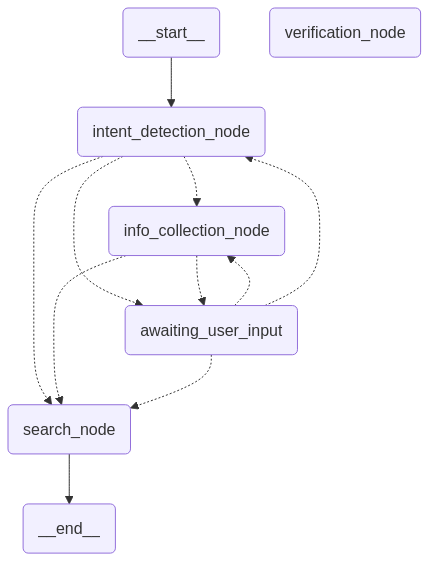
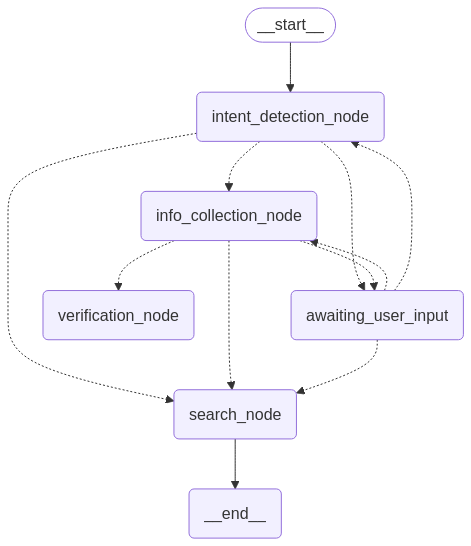
add openai to conclude verification node

diff --git a/frontend/src/components/Message.tsx b/frontend/src/components/Message.tsx
@@ -12,7 +12,7 @@ const Message: React.FC<MessageProps> = ({ sender, text, flightUrl }) => {
   return (
     <div className={`message ${sender}`}>
       <div className="message-content">
-        {text}
+        <div dangerouslySetInnerHTML={{ __html: text }} />
         {flightUrl && (
           <a href={flightUrl} target="_blank" rel="noopener noreferrer">
             See flight details

diff --git a/backend/langgraph_nodes/verification_node.py b/backend/langgraph_nodes/verification_node.py
@@ -1,10 +1,12 @@
+import json
 import os
-import psycopg2
+from typing import Dict, List
 from dotenv import load_dotenv
+import openai
+import psycopg2
 from schemas import Flight_Change, MessageState
 
-# 加载环境变量
-load_dotenv()
+load_dotenv(os.path.join(os.path.dirname(__file__), '../.env'))
 
 class VerificationNode:
     def __init__(self, db_host, db_name, db_user, db_password, db_port=5432):
@@ -13,6 +15,66 @@ class VerificationNode:
         self.db_user = db_user
         self.db_password = db_password
         self.db_port = db_port
+        self.client = openai.OpenAI(api_key=os.getenv("CHAT_GPT_KEY"))
+        self.model_id = os.getenv("CHAT_GPT_MODEL")
+
+    def _call_gpt(self, columns: List[str], result: tuple, user_message: str) -> Dict:
+        """Call OpenAI API to generate single formatted message"""
+        # Build field descriptions
+        field_str = "\n".join([f"{col}: {val}" for col, val in zip(columns, result)])
+        
+        prompt = f"""Generate a SINGLE verification message containing:
+1. Natural language confirmation or rejection in user's language
+2. Structured details section after two newlines
+
+The input data is as follows:
+-Database results:{field_str}
+-User's last message: "{user_message}"
+
+Requirements:
+- If Database results is empty, means Verification failed and No matching ticket found. Generate a message accordingly.
+- If Database results is not empty, means Verification successful and matching ticket found. Generate a message by following the below requirements.
+- Use user's last message to determine the language of the confirmation message
+- Use airport full names (e.g. PVG → Shanghai Pudong International Airport)
+- Localize dates/times based on user's message language
+- Format currency as USD with proper symbols
+- Use Markdown formatting for details section
+- Maintain original field names in details
+- For React JSX compatibility, use <br/><br/> between confirmation and details
+- Use <br/> before each detail item instead of newlines
+
+Output JSON format:
+{{
+    "content": "Natural language confirmation message...<br/><br/>**Ticket Details**<br/>- Field1: Value1<br/>- Field2: Value2...",
+    "sender": "system",
+    "intent_info": "Flight_Change"
+}}"""
+
+        try:
+            response = self.client.chat.completions.create(
+                model=self.model_id,
+                messages=[
+                    {"role": "system", "content": "You are a flight ticketing assistant."},
+                    {"role": "user", "content": prompt}
+                ],
+                temperature=0.2,
+                response_format={"type": "json_object"}
+            )
+            
+            message = json.loads(response.choices[0].message.content)
+            
+            # 验证必要字段
+            required_keys = ["content", "sender", "intent_info"]
+            if not all(k in message for k in required_keys):
+                raise ValueError(f"Missing required keys: {required_keys}")
+                
+            return message
+        except Exception as e:
+            return {
+                "content": f"Verification successful. Display limited: {str(e)}",
+                "sender": "system",
+                "intent_info": Flight_Change
+            }
 
     def process(self, state: MessageState) -> MessageState:
         # 从 collected_info 中提取验证所需字段
@@ -65,24 +127,16 @@ class VerificationNode:
         try:
             cursor.execute(query, (ticket_number, passenger_birthday, passenger_name))
             result = cursor.fetchone()
-            if result:
-            # 使用 cursor.description 获取列名，并构造字典
-                columns = [desc[0] for desc in cursor.description]
-                ticket_info = dict(zip(columns, result))
-            # 将数据库中的信息更新到 collected_info
-                new_state.collected_info.update(ticket_info)
-                new_state.messages.append({
-                    "content": f"Verification successful: Ticket found. Details: {ticket_info}",
-                    "sender": "system",
-                    "intent_info": Flight_Change})
-            else:
-                new_state.messages.append({
-                    "content": "Verification failed: Ticket not found in the database.",
-                    "sender": "system",
-                    "intent_info": Flight_Change})
+                # Get column names from cursor description
+            columns = [desc[0] for desc in cursor.description]
+                # Get last user message
+            user_messages = [msg for msg in new_state.messages if msg["sender"] == "user"]
+            last_user_msg = user_messages[-1]["content"] if user_messages else ""
+                # Generate complete message through GPT
+            gpt_message = self._call_gpt(columns, result, last_user_msg)               
+                # Directly append the generated message
+            new_state.messages.append(gpt_message)
         except Exception as e:
-            cursor.close()
-            connection.close()
             new_state.messages.append( f"Database query error: {str(e)}")
 
         finally:
